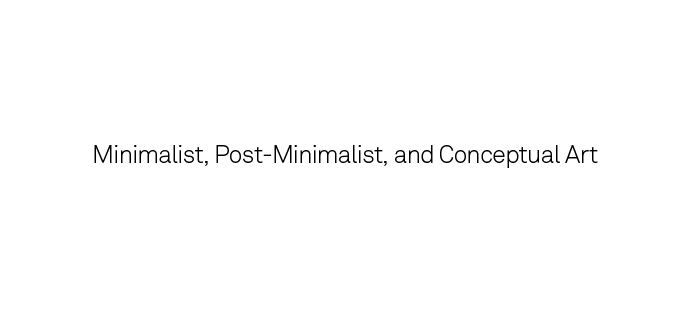
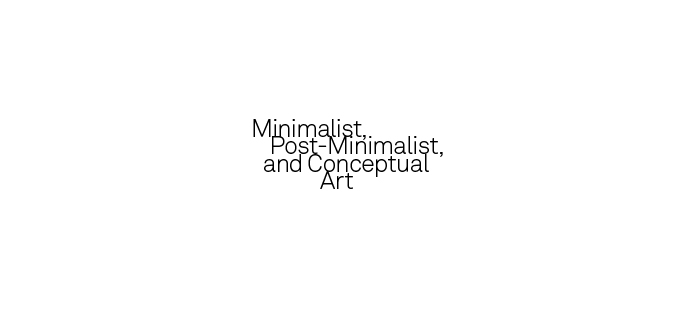
new images for c of c eblast

Changed region(s): [[0.12, 0.3762, 0.87, 0.6077]]

diff --git a/AP/AP1516/AP_cultures_of_conservation/AP_cultures_of_conservation.html b/AP/AP1516/AP_cultures_of_conservation/AP_cultures_of_conservation.html
@@ -40,10 +40,10 @@
                                 <!--/TOP MASTHEADER-->
 
                                 <!--BANNER IMAGE-->
-                                <table width="700" bgcolor="#ffffff" border="0" cellpadding="0" cellspacing="0" style="border-bottom:10px solid #fff;">
+                                <table width="700" bgcolor="#ffffff" border="0" cellpadding="0" cellspacing="0">
                                     <tr>
                                         <td width="700">
-                                            <a href="http://www.bgc.bard.edu/news/events/fustat-symposium.html"><img src="images/cofc_keyword_panel_banner-02.jpg" width="700" alt="Fustat and the World in the Year 1000"></a>
+                                            <a href="http://www.bgc.bard.edu/news/events/fustat-symposium.html"><img src="images/cofc_keyword_panel_banner-01.jpg" width="700" alt="Fustat and the World in the Year 1000"></a>
                                         </td>
                                     </tr>
                                 </table>
